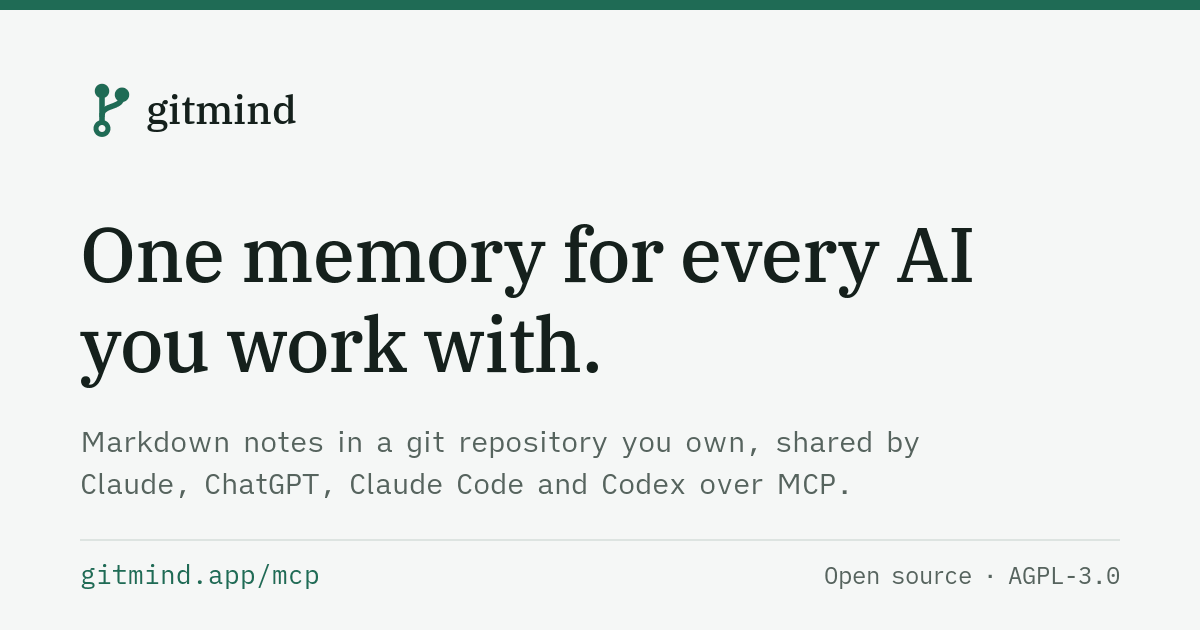
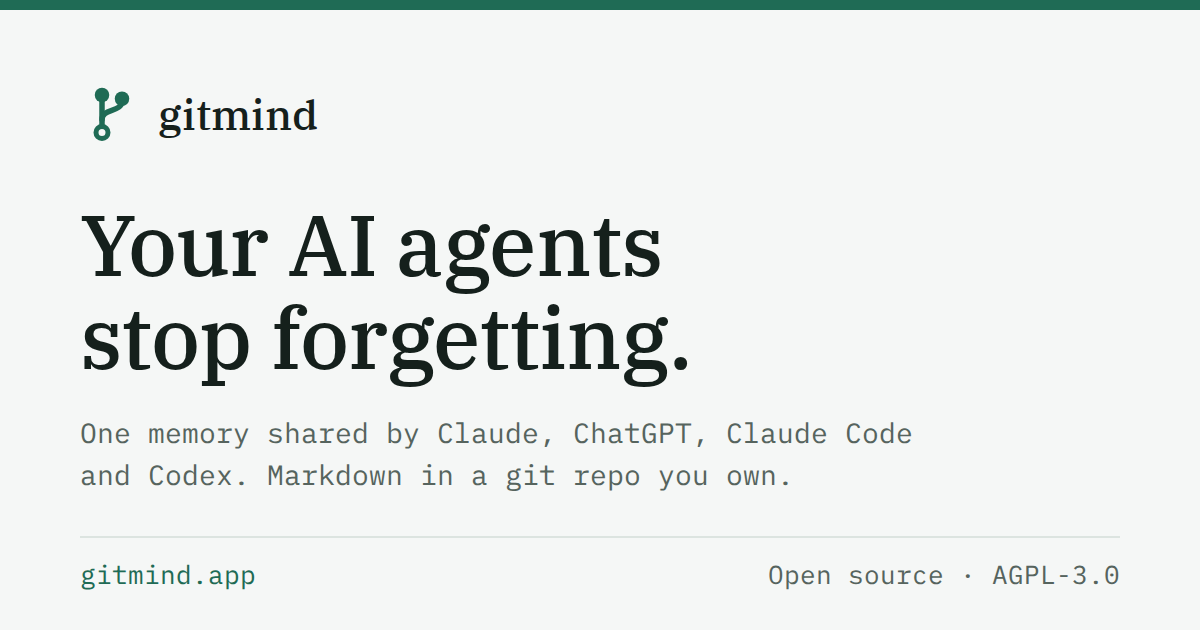
Introduce gitmind by the problem it solves: agents that stop forgetting

diff --git a/README.md b/README.md
@@ -1,8 +1,33 @@
 # gitmind
 
-Persistent memory for coding agents (Claude Code, Codex, anything that speaks
-MCP), stored as Markdown notes in a git repository and synced between machines
-through a remote such as a private GitHub repo.
+**Your AI agents stop forgetting.** One memory shared by Claude, ChatGPT,
+Claude Code and Codex.
+
+Every new agent session starts from zero, so you re-explain your stack, your
+preferences and the bug you already fixed. gitmind gives all your AI apps one
+memory: agents save what they learn as they work (decisions, preferences,
+gotchas, how things are set up) and recall it at the start of the next
+session, in whichever app you use.
+
+- **Works in every AI app**: one MCP endpoint for claude.ai, ChatGPT, Claude
+  Code and Codex, on every device. What one app learns, the others know.
+- **Automatic**: in Claude Code, notes load when a session starts and the agent
+  is reminded to save before it stops. Nothing to approve.
+- **Facts stay current**: a changed fact moves to a dated History instead of
+  contradicting the new one, and agents are warned when they save a conflict.
+- **Yours, in git**: plain Markdown notes in a git repository you own. Read
+  them in Obsidian, edit them, take them with you.
+- **Open source** (AGPL-3.0): use [gitmind.app](https://gitmind.app),
+  self-host it on Cloudflare, or sync through a private GitHub repo.
+
+## Get started
+
+- **claude.ai or ChatGPT**: add `https://gitmind.app/mcp` as a custom
+  connector ([how](https://gitmind.app/docs/connect/)).
+- **Claude Code and Codex**: install the CLI and run `gitmind setup`, which
+  also installs the Claude Code plugin (see [Install](#install)).
+
+## How the CLI works
 
 Each machine runs `gitmind` as a local stdio MCP server. There is no central
 server: your agents keep using their normal logins (including Claude Max), and
